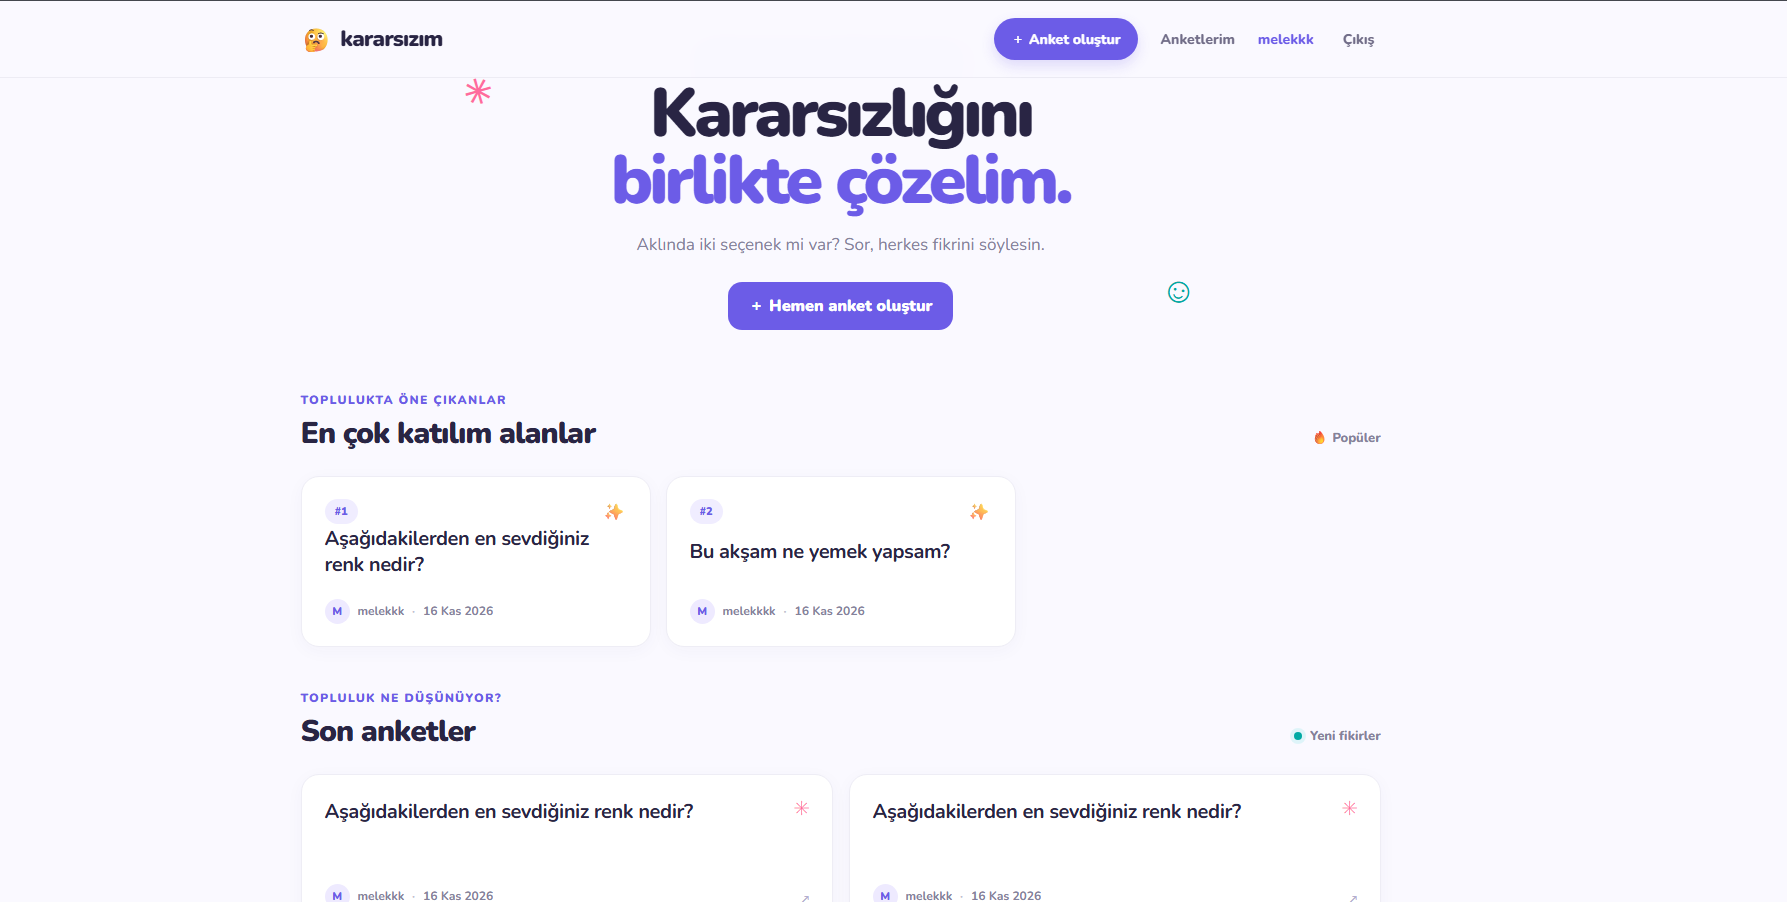
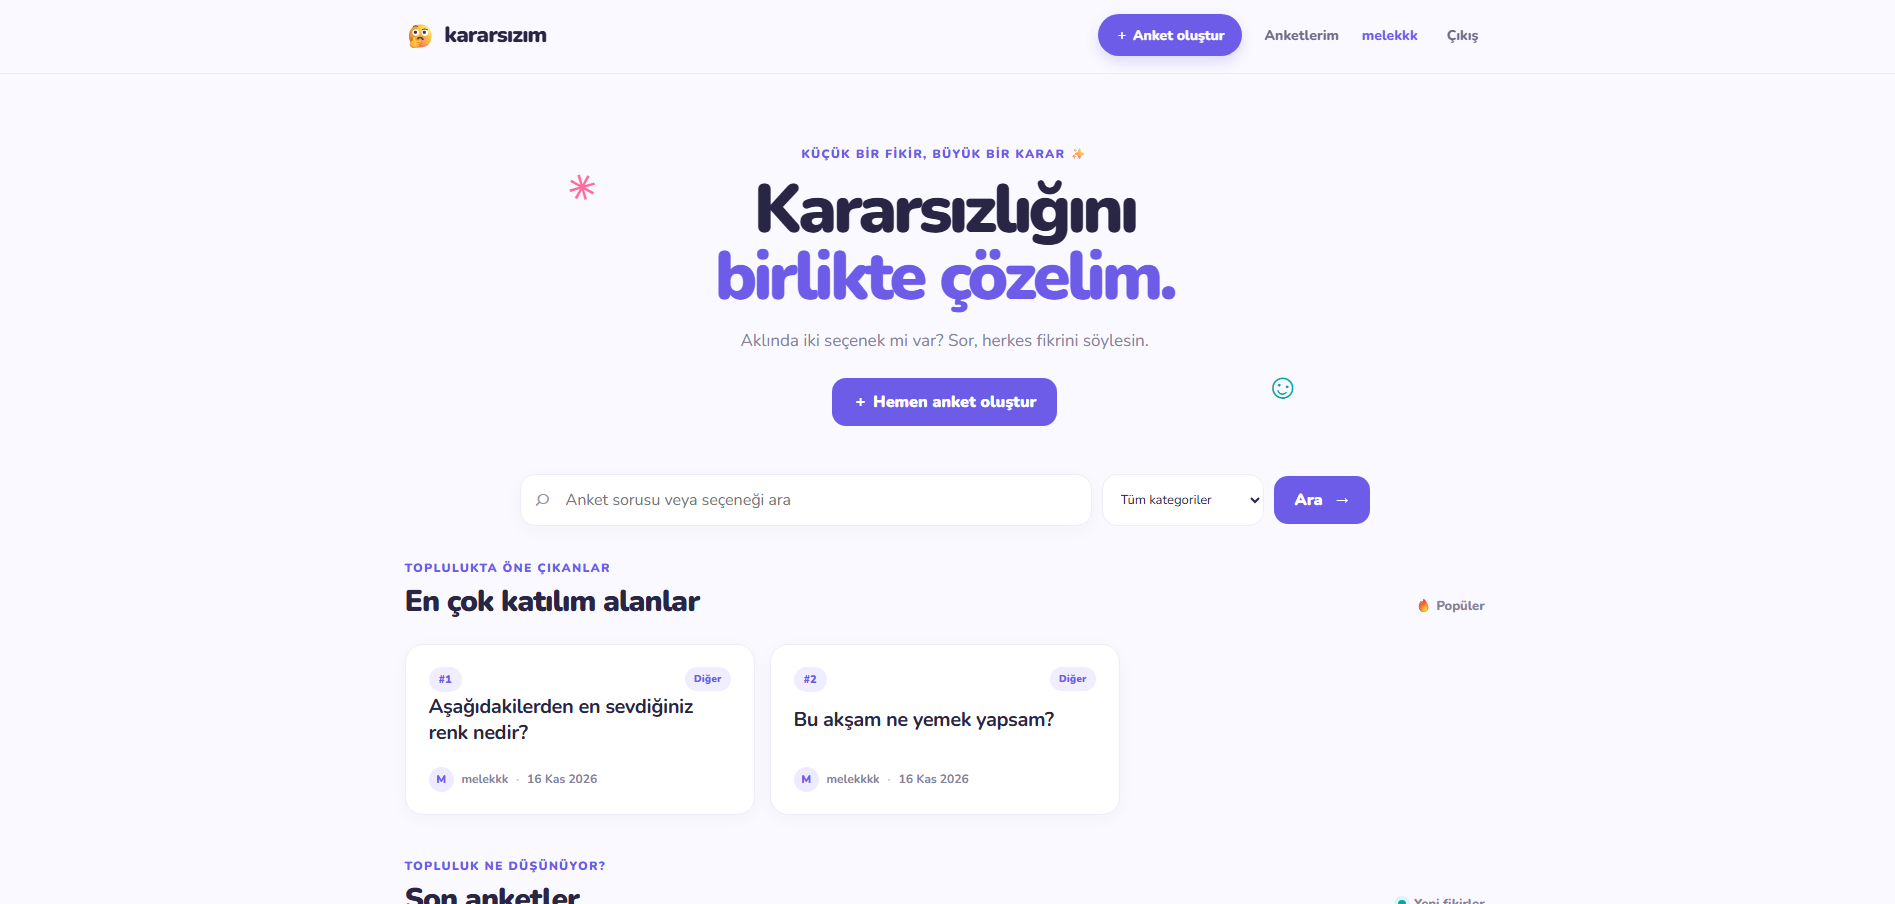
Add poll categories and refresh README screenshots

diff --git a/templates/polls/home.html b/templates/polls/home.html
@@ -1,5 +1,5 @@
 {% extends "base.html" %}
-{% block title %}Anketler · kararsızım{% endblock %}
+{% block title %}{% if search_query %}{{ search_query }} araması · {% endif %}Anketler · kararsızım{% endblock %}
 {% block content %}
 <section class="hero">
   <span class="eyebrow">Küçük bir fikir, büyük bir karar ✨</span>
@@ -8,32 +8,41 @@
   <a class="button button-primary" href="{% url 'polls:create' %}">＋ Hemen anket oluştur</a>
   <span class="hero-doodle doodle-one">✳</span><span class="hero-doodle doodle-two">☺</span>
 </section>
+<form class="search-form" method="get" action="{% url 'polls:home' %}" role="search">
+  <label class="sr-only" for="poll-search">Anketlerde ara</label>
+  <div class="search-input-wrap"><span class="search-icon" aria-hidden="true">⌕</span><input id="poll-search" type="search" name="q" value="{{ search_query }}" maxlength="100" placeholder="Anket sorusu veya seçeneği ara"></div>
+  <label class="sr-only" for="poll-category-filter">Kategoriye göre filtrele</label>
+  <select class="search-category" id="poll-category-filter" name="kategori"><option value="">Tüm kategoriler</option>{% for value, label in category_choices %}<option value="{{ value }}"{% if selected_category == value %} selected{% endif %}>{{ label }}</option>{% endfor %}</select>
+  <button class="button button-primary search-button" type="submit">Ara <span>→</span></button>
+  {% if search_query or selected_category %}<a class="search-clear" href="{% url 'polls:home' %}">Temizle</a>{% endif %}
+</form>
 {% if popular_polls %}<section class="popular-section">
   <div class="section-heading"><div><span class="eyebrow">Toplulukta öne çıkanlar</span><h2>En çok katılım alanlar</h2></div><span class="live-label">🔥 Popüler</span></div>
   <div class="popular-grid">
     {% for poll in popular_polls %}<a class="poll-card popular-card" href="{% url 'polls:detail' poll.id %}">
-      <div class="popular-card-top"><span class="popular-rank">#{{ forloop.counter }}</span><span aria-hidden="true">✨</span></div>
+      <div class="popular-card-top"><span class="popular-rank">#{{ forloop.counter }}</span><span class="category-badge">{{ poll.get_category_display }}</span></div>
       <h3>{{ poll.question }}</h3>
       <div class="poll-card-meta"><span class="avatar">{{ poll.author.username|first|upper }}</span><span>{{ poll.author.username }}</span><span class="meta-dot">·</span><time>{{ poll.created_at|date:"j M Y" }}</time></div>
     </a>{% endfor %}
   </div>
 </section>{% endif %}
 <section class="feed-section">
-  <div class="section-heading"><div><span class="eyebrow">Topluluk ne düşünüyor?</span><h2>Son anketler</h2></div><span class="live-label"><i></i> Yeni fikirler</span></div>
+  <div class="section-heading"><div>{% if search_query or selected_category_label %}<span class="eyebrow">{% if search_query %}“{{ search_query }}” araması {% endif %}{% if selected_category_label %}{{ selected_category_label }} kategorisi{% endif %}</span><h2>Sonuçlar</h2>{% else %}<span class="eyebrow">Topluluk ne düşünüyor?</span><h2>Son anketler</h2>{% endif %}</div>{% if not search_query and not selected_category %}<span class="live-label"><i></i> Yeni fikirler</span>{% endif %}</div>
   {% if page.object_list %}<div class="poll-grid">
     {% for poll in page.object_list %}
     <a class="poll-card" href="{% url 'polls:detail' poll.id %}">
-      <span class="card-sparkle">✳</span><h3>{{ poll.question }}</h3>
+      <span class="category-badge">{{ poll.get_category_display }}</span><span class="card-sparkle">✳</span><h3>{{ poll.question }}</h3>
       <div class="poll-card-meta"><span class="avatar">{{ poll.author.username|first|upper }}</span><span>{{ poll.author.username }}</span><span class="meta-dot">·</span><time>{{ poll.created_at|date:"j M Y" }}</time></div>
       <span class="card-arrow" aria-hidden="true">↗</span>
     </a>
     {% endfor %}
   </div>
   <nav class="pagination" aria-label="Sayfalar">
-    {% if page.has_previous %}<a href="?sayfa={{ page.previous_page_number }}">← Önceki</a>{% endif %}
+    {% if page.has_previous %}<a href="?q={{ search_query|urlencode }}&kategori={{ selected_category|urlencode }}&sayfa={{ page.previous_page_number }}">← Önceki</a>{% endif %}
     <span>{{ page.number }} / {{ page.paginator.num_pages }}</span>
-    {% if page.has_next %}<a href="?sayfa={{ page.next_page_number }}">Sonraki →</a>{% endif %}
+    {% if page.has_next %}<a href="?q={{ search_query|urlencode }}&kategori={{ selected_category|urlencode }}&sayfa={{ page.next_page_number }}">Sonraki →</a>{% endif %}
   </nav>
+  {% elif search_query or selected_category %}<div class="empty-state"><span>🔎</span><h3>Bu filtreyle anket bulamadık</h3><p>{% if search_query %}“{{ search_query }}” için{% endif %} {% if selected_category_label %}{{ selected_category_label }} kategorisinde{% endif %} sonuç yok. Başka bir arama veya kategori deneyebilirsin.</p><a class="button button-primary" href="{% url 'polls:home' %}">Tüm anketlere dön</a></div>
   {% else %}<div class="empty-state"><span>🌱</span><h3>Henüz anket yok</h3><p>İlk kararsızlığı sen paylaş, sohbet başlasın!</p><a class="button button-primary" href="{% url 'polls:create' %}">İlk anketi oluştur</a></div>{% endif %}
 </section>
 {% endblock %}

diff --git a/static/css/style.css b/static/css/style.css
@@ -36,6 +36,17 @@ button, a { -webkit-tap-highlight-color: transparent; }
 .hero-doodle { position: absolute; font-size: 34px; font-weight: 900; }
 .doodle-one { color: var(--pink); left: 15%; top: 88px; transform: rotate(-16deg); }
 .doodle-two { color: var(--teal); right: 17%; bottom: 73px; transform: rotate(12deg); }
+.search-form { width: min(850px, 100%); display: flex; align-items: center; gap: 10px; margin: -8px auto 28px; }
+.search-input-wrap { position: relative; flex: 1; min-width: 160px; }
+.search-icon { position: absolute; left: 16px; top: 50%; color: #9893ad; font-size: 25px; line-height: 1; transform: translateY(-55%); }
+.search-input-wrap input { width: 100%; height: 52px; padding: 0 16px 0 45px; border: 1.5px solid var(--line); border-radius: 15px; outline: none; background: #fff; color: var(--ink); font: inherit; box-shadow: 0 5px 20px rgba(54,44,111,.035); transition: border-color .2s, box-shadow .2s; }
+.search-input-wrap input:focus { border-color: var(--purple); box-shadow: 0 0 0 3px #6c5ce714; }
+.search-category, .field select { min-height: 52px; padding: 0 34px 0 14px; border: 1.5px solid var(--line); border-radius: 15px; outline: none; background: #fff; color: var(--ink); font: inherit; font-size: 13px; }
+.search-category:focus, .field select:focus { border-color: var(--purple); box-shadow: 0 0 0 3px #6c5ce714; }
+.search-button { min-height: 52px; border-radius: 15px; }
+.search-clear { padding: 8px 4px; color: var(--muted); font-size: 12px; font-weight: 800; }
+.search-clear:hover { color: var(--purple); }
+.sr-only { position: absolute; width: 1px; height: 1px; padding: 0; margin: -1px; overflow: hidden; clip: rect(0,0,0,0); white-space: nowrap; border: 0; }
 .button { min-height: 48px; display: inline-flex; align-items: center; justify-content: center; gap: 12px; padding: 12px 21px; border: 0; border-radius: 14px; font-weight: 900; cursor: pointer; transition: transform .2s, box-shadow .2s, background .2s; }
 .button:hover { transform: translateY(-2px); box-shadow: 0 10px 22px #6c5ce733; }
 .button-primary { background: var(--purple); color: #fff; }
@@ -59,6 +70,7 @@ button, a { -webkit-tap-highlight-color: transparent; }
 .poll-card h3 { max-width: 88%; margin: 2px 0 21px; font-size: 20px; line-height: 1.3; letter-spacing: -.4px; }
 .card-sparkle { position: absolute; top: 18px; right: 21px; color: var(--pink); font-size: 20px; }
 .poll-card-meta { display: flex; align-items: center; gap: 8px; color: var(--muted); font-size: 12px; font-weight: 700; }
+.category-badge { width: fit-content; display: inline-flex; align-items: center; padding: 5px 9px; border-radius: 999px; background: #f0edff; color: var(--purple); font-size: 10px; font-weight: 900; letter-spacing: .2px; }
 .avatar { width: 25px; height: 25px; display: grid; place-items: center; border-radius: 50%; background: #eeeaff; color: var(--purple); font-size: 11px; font-weight: 900; }
 .meta-dot { color: #c2bfd0; }
 .card-arrow { position: absolute; right: 21px; bottom: 19px; color: #b4afd0; font-size: 18px; }
@@ -153,6 +165,12 @@ button, a { -webkit-tap-highlight-color: transparent; }
   .hero h1 { letter-spacing: -2.5px; }
   .hero p { max-width: 300px; font-size: 15px; }
   .doodle-one { left: 4%; top: 52px; }.doodle-two { right: 5%; bottom: 39px; }
+  .search-form { flex-wrap: wrap; gap: 7px; margin: 0 auto 24px; }
+  .search-input-wrap { flex: 1 1 100%; }
+  .search-input-wrap input { height: 48px; padding-left: 39px; font-size: 13px; }
+  .search-icon { left: 13px; }
+  .search-category { min-height: 48px; flex: 1; }
+  .search-button { min-height: 48px; padding: 10px 13px; }
   .poll-grid { grid-template-columns: 1fr; gap: 12px; }
   .popular-grid { grid-template-columns: 1fr; gap: 12px; }
   .poll-card { min-height: 142px; padding: 19px; }

diff --git a/templates/polls/my_polls.html b/templates/polls/my_polls.html
@@ -1,4 +1,4 @@
 {% extends "base.html" %}
 {% block title %}Anketlerim · kararsızım{% endblock %}
 {% block content %}<section class="feed-section my-polls"><div class="section-heading"><div><span class="eyebrow">Senin fikirlerin</span><h1>Anketlerim</h1></div><a class="button button-primary" href="{% url 'polls:create' %}">＋ Yeni anket</a></div>
-{% if polls %}<div class="poll-grid">{% for poll in polls %}<article class="poll-card my-poll-card"><a class="poll-card-link" href="{% url 'polls:detail' poll.id %}"><span class="card-sparkle">✳</span><h3>{{ poll.question }}</h3><div class="poll-card-meta"><time>{{ poll.created_at|date:"j M Y" }}</time><span class="meta-dot">·</span><span>{{ poll.total_votes }} oy</span></div></a><form method="post" action="{% url 'polls:delete' poll.id %}" onsubmit="return confirm('Bu anketi silmek istediğine emin misin?')">{% csrf_token %}<button class="delete-link" type="submit">Sil</button></form></article>{% endfor %}</div>{% else %}<div class="empty-state"><span>💭</span><h3>Henüz anket oluşturmamışsın</h3><p>Aklındaki soruyu topluluğa sorabilirsin.</p><a class="button button-primary" href="{% url 'polls:create' %}">Anket oluştur</a></div>{% endif %}</section>{% endblock %}
+{% if polls %}<div class="poll-grid">{% for poll in polls %}<article class="poll-card my-poll-card"><a class="poll-card-link" href="{% url 'polls:detail' poll.id %}"><span class="category-badge">{{ poll.get_category_display }}</span><span class="card-sparkle">✳</span><h3>{{ poll.question }}</h3><div class="poll-card-meta"><time>{{ poll.created_at|date:"j M Y" }}</time><span class="meta-dot">·</span><span>{{ poll.total_votes }} oy</span></div></a><form method="post" action="{% url 'polls:delete' poll.id %}" onsubmit="return confirm('Bu anketi silmek istediğine emin misin?')">{% csrf_token %}<button class="delete-link" type="submit">Sil</button></form></article>{% endfor %}</div>{% else %}<div class="empty-state"><span>💭</span><h3>Henüz anket oluşturmamışsın</h3><p>Aklındaki soruyu topluluğa sorabilirsin.</p><a class="button button-primary" href="{% url 'polls:create' %}">Anket oluştur</a></div>{% endif %}</section>{% endblock %}

diff --git a/templates/polls/create.html b/templates/polls/create.html
@@ -7,6 +7,7 @@
     <form method="post" id="poll-create-form" novalidate>{% csrf_token %}
       {% if form.non_field_errors %}<div class="form-errors">{{ form.non_field_errors }}</div>{% endif %}
       <div class="field"><label for="{{ form.question.id_for_label }}">{{ form.question.label }}</label>{{ form.question }}{% if form.question.errors %}<div class="field-error">{{ form.question.errors }}</div>{% endif %}<small>5–200 karakter</small></div>
+      <div class="field"><label for="{{ form.category.id_for_label }}">{{ form.category.label }}</label>{{ form.category }}{% if form.category.errors %}<div class="field-error">{{ form.category.errors }}</div>{% endif %}</div>
       <div class="field"><div class="option-heading"><label>Seçeneklerin</label><span>2–5 seçenek</span></div><div id="option-list">
         {% for field in form %}{% if field.name|slice:":7" == "option_" %}<div class="option-input-row" data-option-row><span class="option-number">{{ forloop.counter|add:"-2" }}</span>{{ field }}<button class="remove-option" type="button" aria-label="Seçeneği kaldır">−</button>{% if field.errors %}<div class="field-error">{{ field.errors }}</div>{% endif %}</div>{% endif %}{% endfor %}
       </div><button class="add-option" type="button" id="add-option">＋ Seçenek ekle</button></div>

diff --git a/templates/polls/detail.html b/templates/polls/detail.html
@@ -5,7 +5,7 @@
 <div class="narrow-page detail-page">
   <a class="back-link" href="{% url 'polls:home' %}">← Anketlere dön</a>
   <article class="detail-card">
-    <div class="detail-topline"><span class="eyebrow">Bir kararsızlık geldi</span><span class="detail-emoji">🤔</span></div>
+    <div class="detail-topline"><span class="category-badge">{{ poll.get_category_display }}</span><span class="detail-emoji">🤔</span></div>
     <h1>{{ poll.question }}</h1>
     <div class="poll-card-meta detail-meta"><span class="avatar">{{ poll.author.username|first|upper }}</span><span>{{ poll.author.username }}</span><span class="meta-dot">·</span><time>{{ poll.created_at|date:"j F Y" }}</time></div>
     {% if show_results %}

diff --git a/polls/views.py b/polls/views.py
@@ -5,7 +5,7 @@ from django.contrib import messages
 from django.contrib.auth.decorators import login_required
 from django.core.paginator import Paginator
 from django.db import IntegrityError, transaction
-from django.db.models import Count
+from django.db.models import Count, Q
 from django.http import JsonResponse
 from django.shortcuts import get_object_or_404, redirect, render
 from django.views.decorators.http import require_POST
@@ -30,14 +30,35 @@ def set_vote_cookie(response, request, browser_id):
 
 def home(request):
     polls = Poll.objects.select_related("author").all()
+    search_query = request.GET.get("q", "").strip()[:100]
+    category_query = request.GET.get("kategori", "").strip()
+    category_labels = dict(Poll.CATEGORY_CHOICES)
+    if category_query not in category_labels:
+        category_query = ""
+    if category_query:
+        polls = polls.filter(category=category_query)
+    if search_query:
+        polls = polls.filter(
+            Q(question__icontains=search_query)
+            | Q(options__text__icontains=search_query)
+        ).distinct()
     page = Paginator(polls, 10).get_page(request.GET.get("sayfa"))
-    popular_polls = (
-        Poll.objects.select_related("author")
-        .annotate(participant_count=Count("votes"))
-        .filter(participant_count__gt=0)
-        .order_by("-participant_count", "-created_at")[:3]
-    )
-    return render(request, "polls/home.html", {"page": page, "popular_polls": popular_polls})
+    popular_polls = []
+    if not search_query:
+        popular_polls = (
+            polls.select_related("author")
+            .annotate(participant_count=Count("votes"))
+            .filter(participant_count__gt=0)
+            .order_by("-participant_count", "-created_at")[:3]
+        )
+    return render(request, "polls/home.html", {
+        "page": page,
+        "popular_polls": popular_polls,
+        "search_query": search_query,
+        "category_choices": Poll.CATEGORY_CHOICES,
+        "selected_category": category_query,
+        "selected_category_label": category_labels.get(category_query, ""),
+    })
 
 
 def poll_detail(request, poll_id):
@@ -104,7 +125,11 @@ def create_poll(request):
     form = PollCreateForm(request.POST or None)
     if request.method == "POST" and form.is_valid():
         with transaction.atomic():
-            poll = Poll.objects.create(author=request.user, question=form.cleaned_data["question"].strip())
+            poll = Poll.objects.create(
+                author=request.user,
+                question=form.cleaned_data["question"].strip(),
+                category=form.cleaned_data["category"],
+            )
             Option.objects.bulk_create([
                 Option(poll=poll, text=text, position=index)
                 for index, text in enumerate(form.cleaned_data["option_values"])

diff --git a/polls/models.py b/polls/models.py
@@ -3,8 +3,19 @@ from django.db import models
 
 
 class Poll(models.Model):
+    CATEGORY_CHOICES = [
+        ("gunluk", "Günlük Hayat"),
+        ("yemek", "Yemek"),
+        ("eglence", "Eğlence"),
+        ("alisveris", "Alışveriş"),
+        ("egitim_is", "Eğitim / İş"),
+        ("seyahat", "Seyahat"),
+        ("diger", "Diğer"),
+    ]
+
     author = models.ForeignKey(settings.AUTH_USER_MODEL, on_delete=models.CASCADE, related_name="polls")
     question = models.CharField(max_length=200)
+    category = models.CharField(max_length=20, choices=CATEGORY_CHOICES, default="diger")
     created_at = models.DateTimeField(auto_now_add=True)
 
     class Meta:

diff --git a/polls/migrations/0002_poll_category.py b/polls/migrations/0002_poll_category.py
@@ -1,0 +1,18 @@
+# Generated by Django 5.2.19 on 2026-11-16 18:51
+
+from django.db import migrations, models
+
+
+class Migration(migrations.Migration):
+
+    dependencies = [
+        ('polls', '0001_initial'),
+    ]
+
+    operations = [
+        migrations.AddField(
+            model_name='poll',
+            name='category',
+            field=models.CharField(choices=[('gunluk', 'Günlük Hayat'), ('yemek', 'Yemek'), ('eglence', 'Eğlence'), ('alisveris', 'Alışveriş'), ('egitim_is', 'Eğitim / İş'), ('seyahat', 'Seyahat'), ('diger', 'Diğer')], default='diger', max_length=20),
+        ),
+    ]

diff --git a/polls/forms.py b/polls/forms.py
@@ -1,9 +1,12 @@
 from django import forms
 from django.core.exceptions import ValidationError
 
+from .models import Poll
+
 
 class PollCreateForm(forms.Form):
     question = forms.CharField(label="Kararsız kaldığın konu", min_length=5, max_length=200, widget=forms.Textarea(attrs={"rows": 3, "placeholder": "Örn. Bu akşam ne yapsam?"}))
+    category = forms.ChoiceField(label="Kategori", choices=Poll.CATEGORY_CHOICES, initial="diger")
     options = forms.CharField(widget=forms.HiddenInput, required=False)
 
     def __init__(self, *args, **kwargs):

diff --git a/polls/admin.py b/polls/admin.py
@@ -9,7 +9,7 @@ class OptionInline(admin.TabularInline):
 
 @admin.register(Poll)
 class PollAdmin(admin.ModelAdmin):
-    list_display = ("question", "author", "created_at")
+    list_display = ("question", "category", "author", "created_at")
     inlines = [OptionInline]
 
 

diff --git a/docs/KARARSIZIM_PROJE_PLANI.md b/docs/KARARSIZIM_PROJE_PLANI.md
@@ -41,6 +41,8 @@
 
 ### 3.1 Ziyaretçi (üye olmayan)
 - Ana sayfada tüm anketleri görür (en yeni en üstte, sayfalama ile).
+- Ana sayfadaki arama alanında anket sorusu ve seçenek metinlerinde kelime arar (büyük/küçük harf duyarsız).
+- Anketleri kategoriye göre filtreleyebilir.
 - Anket detayını açar, oy verir.
 - Oy verdikten sonra sonuçları görür.
 - Anket oluşturmaya çalışırsa kayıt/giriş sayfasına yönlendirilir.
@@ -54,6 +56,7 @@
 
 ### 3.3 Anket kuralları
 - Soru: zorunlu, 5–200 karakter.
+- Kategori: zorunlu; Günlük Hayat, Yemek, Eğlence, Alışveriş, Eğitim / İş, Seyahat veya Diğer.
 - Seçenek sayısı: **en az 2, en fazla 5**.
 - Her seçenek: zorunlu, 1–80 karakter, aynı ankette tekrar edemez (büyük/küçük harf farkı yok sayılır).
 - Anket oluşturma formunda "Seçenek ekle" butonu (5'e ulaşınca devre dışı) ve "Kaldır" butonu (2'nin altına inemez) olacak. Bu JavaScript ile yapılacak, ama sunucu tarafında da aynı kurallar mutlaka doğrulanacak.
@@ -76,7 +79,7 @@
 - E-posta doğrulama ve parola sıfırlama prototipte YOK (sonraki aşamalarda eklenebilir).
 
 ### 3.6 Kapsam dışı (şimdilik YAPILMAYACAK)
-Takip sistemi, yorumlar, beğeni, kategori/etiket, arama, raporlama/moderasyon, bildirimler, profil sayfası düzenleme, oy değiştirme, anket düzenleme, süreli anketler, e-posta doğrulama, parola sıfırlama, çoklu dil, admin dışında yönetim paneli.
+Takip sistemi, yorumlar, beğeni, raporlama/moderasyon, bildirimler, profil sayfası düzenleme, oy değiştirme, anket düzenleme, süreli anketler, e-posta doğrulama, parola sıfırlama, çoklu dil, admin dışında yönetim paneli.
 
 ---
 
@@ -93,6 +96,7 @@ Django modelleri (Supabase Postgres üzerinde):
 **Poll**
 - `author` → User (FK, CASCADE)
 - `question` (CharField, max 200)
+- `category` (seçili anket kategorisi)
 - `created_at` (auto)
 
 **Option**
@@ -240,13 +244,13 @@ Her aşama ayrı bir Claude Code oturumunda/isteğinde yapılmalıdır. Bir aşa
 
 ### Aşama 2 — Anket oluşturma
 - `Poll`, `Option` modelleri ve migrasyon.
-- Anket oluşturma formu (2–5 seçenek, dinamik ekle/kaldır JS'i, sunucu doğrulaması).
+- Anket oluşturma formu (kategori seçimi, 2–5 seçenek, dinamik ekle/kaldır JS'i, sunucu doğrulaması).
 - Giriş yoksa `/giris/` yönlendirmesi.
 - Django admin'de Poll/Option/Vote kayıtları görünsün.
 - **Bitiş kriteri:** Üye 2–5 seçenekli anket oluşturabiliyor; 1 veya 6 seçenek reddediliyor.
 
 ### Aşama 3 — Listeleme ve oylama
-- Ana sayfa listesi (sayfalama), anket detay sayfası.
+- Ana sayfa listesi (sayfalama, soru/seçenek araması ve kategori filtresi), anket detay sayfası.
 - `Vote` modeli, benzersizlik kısıtları, oy verme endpoint'i (JSON), `vote.js` ile sayfa yenilemeden sonuç gösterimi.
 - Ziyaretçi (session) ve üye oylaması; çift oy engeli.
 - "Anketlerim" sayfası ve anket silme.
@@ -263,7 +267,7 @@ Her aşama ayrı bir Claude Code oturumunda/isteğinde yapılmalıdır. Bir aşa
 - **Bitiş kriteri:** Vercel adresinde kayıt, anket oluşturma ve oylama çalışıyor.
 
 ### Sonraki fikirler (prototipten sonra)
-E-posta doğrulama, parola sıfırlama, kategoriler, arama, en çok oy alanlar sıralaması, süreli anketler, rate limit, rapor/moderasyon.
+E-posta doğrulama, parola sıfırlama, en çok oy alanlar sıralaması, süreli anketler, rate limit, rapor/moderasyon.
 
 ---
 

diff --git a/README.md b/README.md
@@ -22,6 +22,8 @@ Kararsız kaldığın konuları ankete dönüştür, topluluğun oylarıyla kara
 
 - E-posta veya kullanıcı adıyla kayıt ve giriş
 - Üye olmadan anketleri görüntüleme ve oy kullanma
+- Anket sorusu ve seçenek metinlerinde kelime arama
+- Anketleri kategoriye göre filtreleme
 - Üyeler için 2–5 seçenekli anket oluşturma
 - Oy kullandıktan sonra sonuçları ve katılım oranlarını görme
 - En çok katılım alan anketleri ana sayfada listeleme
